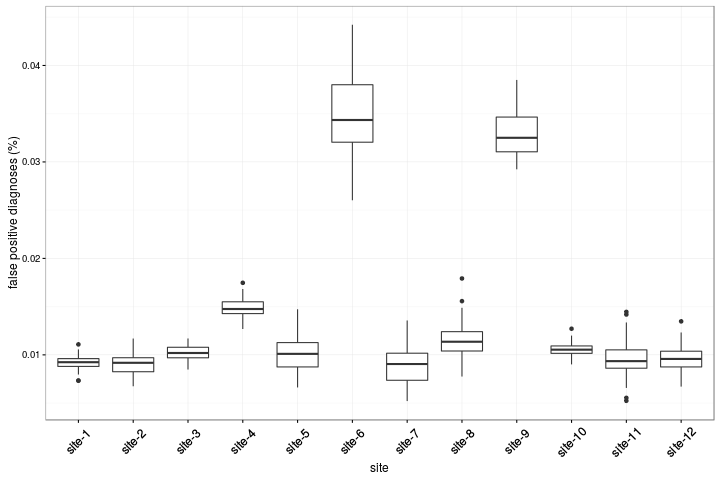
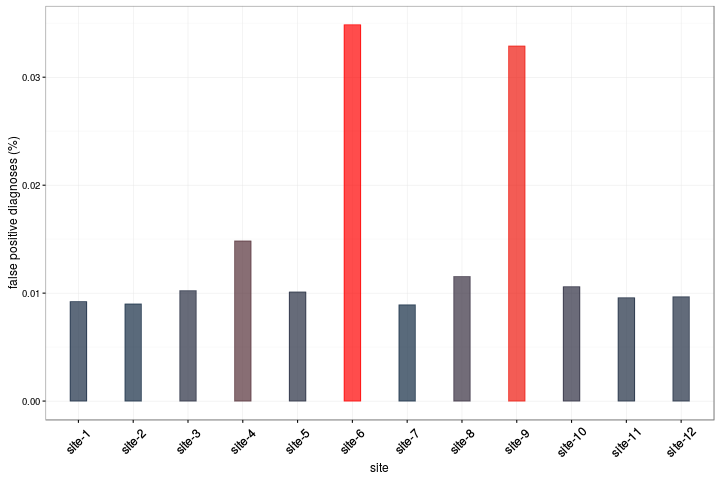
Add simulated data plots

diff --git a/README.md b/README.md
@@ -20,12 +20,16 @@ For this week, I generated some preliminary sketches for assessing data quality 
 
 ![](plots/anomaly-by-site-1.png)
 
-#### Visualization-2: Summary for technical audience
+Variation: bar chart
 
 ![](plots/anomaly-by-site-2.png)
 
-#### Visualization-3: All data
+#### Visualization-2: Summary for technical audience
 
 ![](plots/anomaly-by-site-3.png)
+
+#### Visualization-3: All data
+
+![](plots/anomaly-by-site-4.png)
 
 
